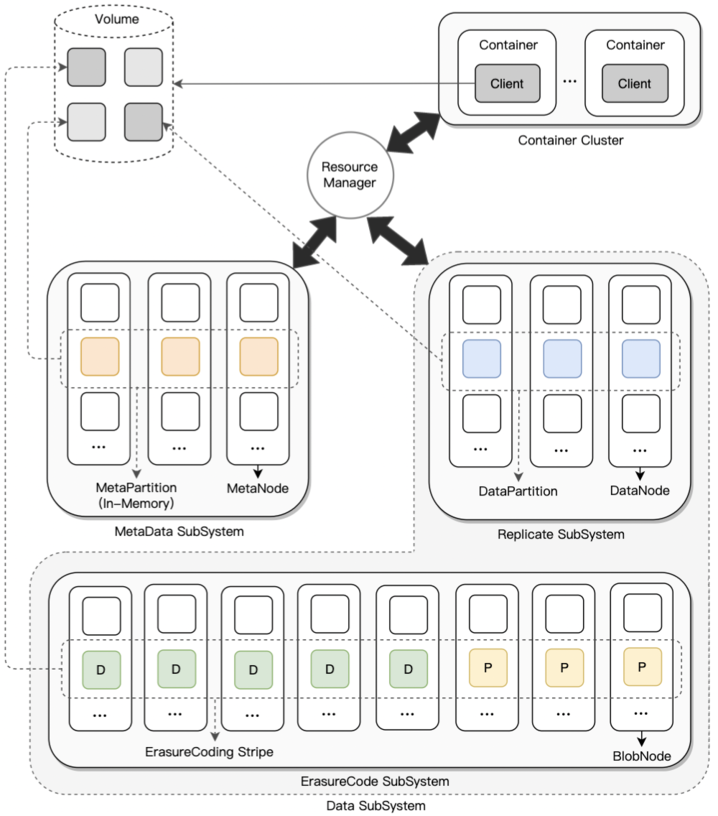
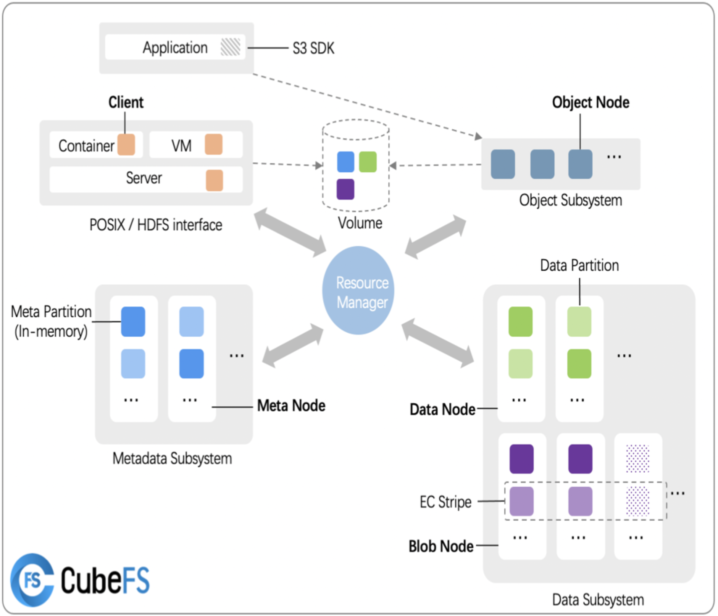
fix some error and add two-replica,qos

Changed region(s): [[0.0, 0.0, 1.0, 1.0], [0.3677, 0.2468, 0.3983, 0.2776]]

diff --git a/docs/source/user-guide/client.rst b/docs/source/user-guide/client.rst
@@ -125,26 +125,42 @@ fuse.json
 
 一级缓存
 -------------
-执行如下命令启动本地一级缓存服务：
+
+部署在用户客户端的本地读cache服务，对于数据集有修改写，需要强一致的场景不建议使用。
+
+启动命令
+^^^^^^^^^^^
 
 .. code-block:: bash
 
-   ./cfs-bcache -c cache.json
+   ./cfs-client -c client.conf
+
+配置文件
+^^^^^^^^^^^
 
 .. code-block:: json
 
    {
-      "role":"blockcache",
-      "cacheDir":"/cache_path_1:cache_size;/cache_path_2:cache_size",
-      "logDir":"/your/block/cache/logdir",
-      "logLevel":"warn"
+      "mountPoint": "/home/service/mnt",
+      "volName": "ltptest",
+      "owner": "ltptest",
+      "masterAddr": "xxx",
+      "logDir": "/cfs/client/log",
+      "logLevel": "info",
+      "profPort": "27510",
+      "maxStreamerLimit":"10000000",
+      "bcacheDir":"/home/service/mnt"
    }
 
 .. csv-table:: 配置选项
    :header: "名称", "类型", "描述", "必需"
 
-    "role", "string", "role必须配置为blockcache", "是"
-    "cacheDir", "string", "缓存本地路径", "是"
-    "logDir", "string", "日志存放路径", "是"
-    "logLevel", "string", "日志级别：debug, info, warn, error", "是"
-    "prof", "string", "golang pprof调试端口", "否"
+    "mountPoint", "string", "挂载点", "是"
+    "volName", "string", "卷名称", "是"
+    "owner", "string", "所有者", "是"
+    "masterAddr", "string", "Master节点地址", "是"
+    "logDir", "string", "日志存放路径", "否"
+    "logLevel", "string", "日志级别：debug, info, warn, error", "否"
+    "profPort", "string", "golang pprof调试端口", "否"
+    "maxStreamerLimit", "string", "文件元数据缓存数目", "否"
+    "bcacheDir", "string", "需要开启读缓存的目录路径", "使用缓存时（必须）"

diff --git a/docs/source/overview.rst b/docs/source/overview.rst
@@ -40,7 +40,7 @@ CubeFS由 *元数据子系统* ，*数据子系统* 和 *资源管理节点* 组
 元数据子系统可以认为是内存元数据存储。我们使用了两个B-Tree，inodeTree和dentryTree，来加快索引速度。每个元数据分片根据inode id范围进行划分。
 
 
-多租户
+通用存储引擎
 ^^^^^^^^^^^^^^^^^^^^
 
 为了降低存储成本，很多应用和服务都使用了共享的存储基础设施。不同负载交织在一起，文件大小可以从几KB至几百GB，读写模型从顺序到随机。一个成熟的文件系统应该可以高性能地服务于这些负载。CubeFS的存储引擎同时提供了对大文件和小文件的随机/顺序读写的支持。
@@ -56,6 +56,11 @@ POSIX兼容
 ^^^^^^^^^^^^^^^^
 
 兼容POSIX接口，可以使得上层应用的开发变得简单，并且大大降低新用户的学习难度。同时，CubeFS在实现时放松了对POSIX语义的一致性要求来兼顾文件和元文件操作的性能。
+
+对象存储
+^^^^^^^^^^^^^^^^
+
+对象存储系统提供兼容S3的对象存储接口，可以使用户使用原生的Amazon S3 SDK操作CubeFS中的文件。它使得CubeFS成为一个可以将两种通用类型接口进行融合的存储（POSIX和S3兼容接口）。
 
 纠删码存储
 ^^^^^^^^^^^^^^^^^

diff --git a/docs/source/faq.rst b/docs/source/faq.rst
@@ -559,8 +559,6 @@ Fuse客户端问题
 
 不是。CubeFS放宽了POSIX一致性语义，它只能确保文件/目录操作的顺序一致性，并没有任何阻止多个客户写入相同的文件/目录的leasing机制。这是因为在容器化环境中，许多情况下不需要严格的POSIX语义，即应用程序很少依赖文件系统来提供强一致性保障。并且在多租户系统中也很少会有两个互相独立的任务同时写入一个共享文件因此需要上层应用程序自行提供更严格的一致性保障。
 
-5.	Fsync chunk
-
-6.	能否直接杀死client进程，来停止client服务
+5.	能否直接杀死client进程，来停止client服务
 
 不建议，最好走umount流程，umount后，client进程会自动停止。

diff --git a/docs/source/user-guide/datanode.rst b/docs/source/user-guide/datanode.rst
@@ -4,7 +4,7 @@
 启动数据节点
 ---------------------
 
-通过执行CubeFS的二进制文件并用“-c”参数指定的配置文件来启动一个DATANODE进程。注意datanode的实例最少需要４个。
+通过执行CubeFS的二进制文件并用“-c”参数指定的配置文件来启动一个DATANODE进程。通常datanode的实例数目需要3个以上，但在生产环境中为了考虑容灾备份，datanode的实例则需要至少４个。
 
 .. code-block:: bash
 

diff --git a/docs/source/user-guide/docker.rst b/docs/source/user-guide/docker.rst
@@ -3,7 +3,7 @@
 
 在docker目录下，run_docker.sh工具用来方便运行CubeFS docker-compose试用集群。
 
-执行下面的命令，可完全重新创建一个最小的CubeFS集群。注意的是**/data/disk**是数据根目录，至少需要30GB大小空闲空间。
+执行下面的命令，可完全重新创建一个最小的CubeFS集群。注意的是**/data/disk**是数据根目录，至少需要10GB大小空闲空间。
 
 .. code-block:: bash
 

diff --git a/docs/source/admin-api/master/cluster.rst b/docs/source/admin-api/master/cluster.rst
@@ -3,6 +3,7 @@
 
 概述
 --------
+调用资源管理节点提供的API进行集群管理。curl命令中的IP和端口地址分别为资源管理节点配置文件中的ip和listen选项。
 
 .. code-block:: bash
 
